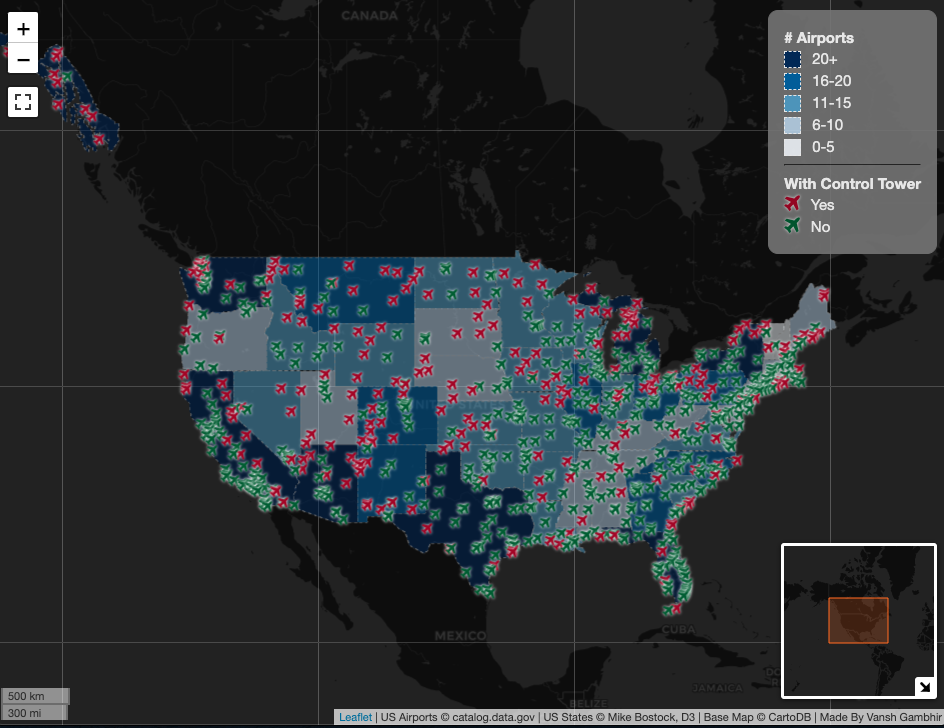
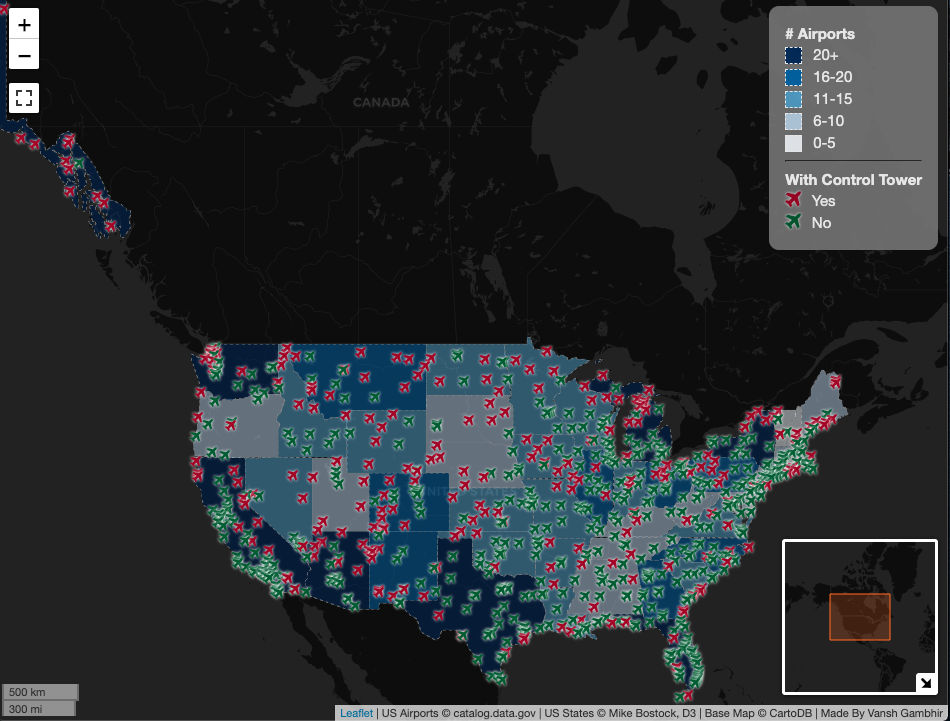
updated legend for control tower

diff --git a/js/main.js b/js/main.js
@@ -140,8 +140,8 @@ legend.onAdd = function () {
   div.innerHTML +=
     '<div class="box" style="background: ' + colors[0] + ';"></div><p> 0-5</p>';
   div.innerHTML += '<hr><b>With Control Tower</b><br />';
-  div.innerHTML += '<i class="fa fa-plane marker-color-1"></i><p> Yes</p>';
-  div.innerHTML += '<i class="fa fa-plane marker-color-2"></i><p> No</p>';
+  div.innerHTML += '<i class="fa fa-plane marker-color-2"></i><p> Yes</p>';
+  div.innerHTML += '<i class="fa fa-plane marker-color-1"></i><p> No</p>';
 
   // Return the Legend div containing the HTML content
   return div;
